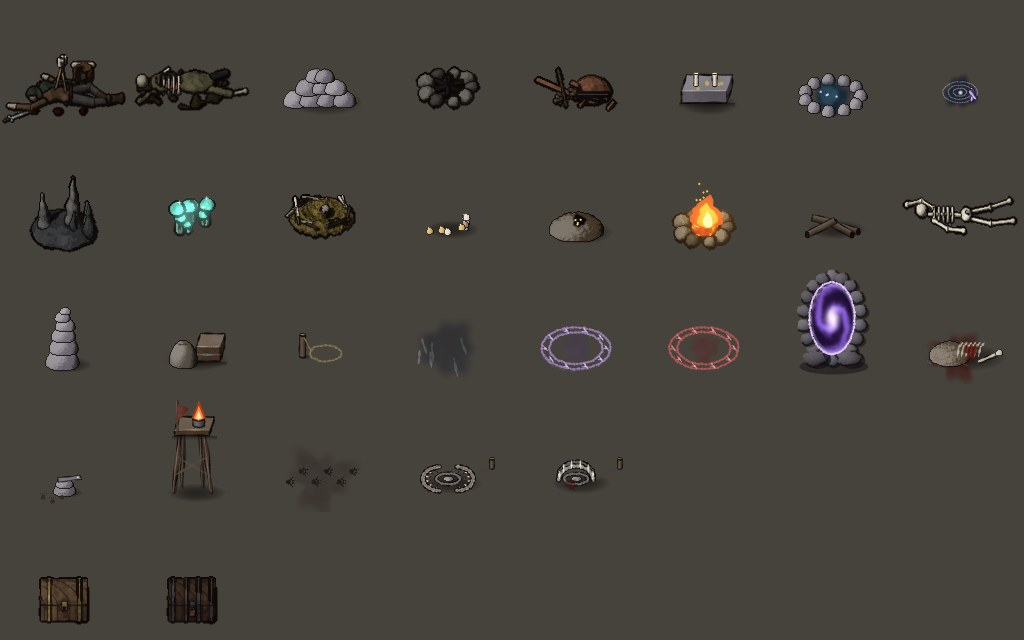
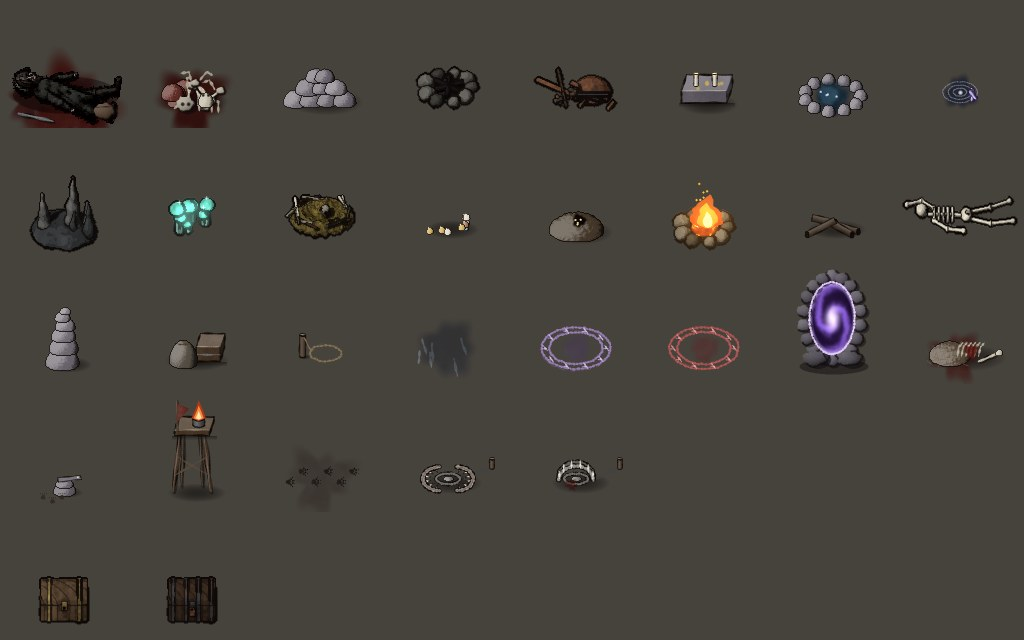
게임의 시체 소품 둘을 옛 그림으로 되돌림(키트 소품 9칸)
Claude-Session: https://claude.ai/code/session_01Afqs6eSr4jx8pAh9swNiAv

Changed region(s): [[0.0, 0.0938, 0.25, 0.2188]]

diff --git a/tools/dungeon_kit/game_props.py b/tools/dungeon_kit/game_props.py
@@ -21,8 +21,7 @@ OLD = os.path.join(kit.ROOT, "assets", "floor", "f1", "props.webp")
 OUT = os.path.join(kit.ROOT, "assets", "floor", "kit", "props.webp")
 # 칸 번호 → (키트 id, 변형, 프레임, 칸에 맞출 가장 큰 폭 px) — 옛 그림과 같은 뜻의 것만 바꾼다(포탈 · 덫 · 노움 물건 · 발자국은 옛 그림 그대로)
 PROPS = {
-    0: ("corpse", "explorer", 0, 124),          # 탐험가의 시체
-    1: ("corpse", "rotten", 0, 116),            # 갉아먹힌 시체 더미
+    # 0 탐험가의 시체 · 1 갉아먹힌 시체 더미 = 옛 그림(사용자 2026-11-13 "시체는 원래 거로 롤백해")
     3: ("firepit", "cold", 0, 84),              # 꺼진 모닥불 자리
     4: ("broken_weapon", "pile", 0, 96),        # 부서진 장비 더미
     8: ("stalagmite", "cluster", 0, 96),        # 석순 숲

diff --git a/docs/ASSUMPTIONS.md b/docs/ASSUMPTIONS.md
@@ -750,7 +750,7 @@
 | AM63 | **미궁 벽을 플레이어 키보다 높게 · 아치를 키 높이로 · 아치 안은 뒤가 보이게**(사용자 2026-11-01 "아치가 너무 낮다 — 플레이어 키 정도로, 미궁 내부 벽을 높일 필요도. 아치 내부를 검정으로 때려박았던데 위에 덮어 가리는 형태로, 아치 안으로 뒤 지형이 보이게"): 기본 벽 앞면 24 → **48px**(render.json `view.wall_tile_px` [32, 80] — 플레이어 몸 그림 키 약 42px) · 바위 절벽 40 → 56 · 폭포 48 → 56 · 성문·창·집·오두막·깃발 벽·벽감 → 48 · 승강기 44 → 52 · 무너진 흙 30 → 40 · 기둥 56 → 64 · 대현자 기념비 40 → 56(벽보다 낮아지지 않게). 그대로: 관·큰바위·네모 수정·서 있는 소품. 벽 아틀라스는 `paint_floor.gd`로 새 높이에 다시 그림(앞면 칠이 높이를 따라간다 — 45초). 아치: 아치 시작 spring 0.7 → 0.42 · 가운데 두께 lintel 0.3 → 0.14(트인 높이 = 앞면 48 × 0.86 ≈ 41px), 아치 밑 그늘 0.6·0.45칸 → 0.3·0.3칸 — 아치는 위에 덮을 뿐이라 안으로 뒤 통로 바닥이 그대로 보인다(검은 것은 아치 위 벽 머리뿐). 벽이 칸보다 높아져 생긴 것: ① 북쪽 칸이 벽이어도 그 너머(앞면 높이 안)에 바닥이 있으면 벽 윗면을 검게 그린다(`WallShape._open_behind` — 안 그리면 계단진 벽 둘레에 바닥이 가는 띠로 비쳤다) ② 캐릭터 실루엣은 바로 남쪽 벽뿐 아니라 앞면이 한 칸 너머까지 올라오는 두 칸 남쪽 벽에도(`FloorView._occludes`) ③ 벽 북쪽 1~1.5칸 바닥이 벽에 가려진다(3/4 시점에서 높은 벽 뒤 — 레퍼런스와 같은 모습) | 사용자 요청 | 높이 = render.json `view.wall_tile_px`(기본) · 타일 `face_px` + `tools/floor_art/rift/specs.json`·`Specs.gd` face_px(같게) → `paint_floor.gd` → `--import` · 아치 = `view.door` |
 | AM64 | **2층 그림 마감 — 각진 타일 느낌 없애기**(사용자 2026-11-11 "2층 이미지가 각지고 타일 같다. 1층 수정동굴 · 균열처럼 마감해 줘 — 갈아엎고 다시 그려도 돼. 건물 · 상호작용 요소가 ppt 도형 같다. 렉도 걸리지 않게"): ① **넓은 바닥 재질**(타일 `art.span` 4) — 칸(64px)마다 같은 바탕이 되풀이되던 아틀라스 대신 4 × 4칸을 덮는 이어지는 그림 13장(`tools/f2_art/ground.py`). ② **재질 번짐**(`art.fringe` 순위 · `fringe_style`) — 재질이 다른 바닥이 맞닿으면 순위 높은 쪽이 들쭉날쭉 스며든다(`FloorFringe` + `floor_fringe.gdshader` + 띠 모양 `fringe_mask.webp`), 같은 높이(sunk)끼리만. ③ **둘레 바닥 빌리기** — 번짐을 쓰는 층의 소품 · 서 있는 소품 · 포탈 칸은 자기 바닥 대신 맞닿은 맨바닥을 깐다(같은 타일이 여러 땅에 놓여도 네모가 뜨지 않는다), 올가미 · 덮은 구덩이 · 말뚝 · 금 · 꺼진 구멍은 투명 덧그림(`art.overlay`). ④ **소품 · 큰 구조물 35장 다시 그림** — 평면 도형 대신 덩어리를 빚어(거리장) 3/4 시점으로 찍고 3~4단 칠 · 잉크 윤곽 · 빗금으로 마감(`tools/f2_art/props.py`). 모습은 그대로(영묘 · 천사상 · 종탑 · 고목 · 기사상 / 움막 · 천막 · 망대 · 나무 일곱). ⑤ **자연 암벽 윗선**(소굴 · 사막 `art.abyss.rise.soft` 0.55) — 솟은 면 윗부분이 어둠으로 녹고 남쪽 가장자리 띠를 뺀다(칸 계단이 보였다). ⑥ **렉** — 서 있는 소품은 그림이 있는 네모만 그린다(시트 옆 json, 큰 나무 칸은 대부분 투명했다), 번짐 띠도 덮는 폭만. 숲 바닥 · 빈터 타일 색을 덜 쨍하게(#414a30 · #4f6a38). 2층 균열 · 벽(덤불 둔덕 · 폐허)은 그대로 | 사용자 요청 | 번짐 끄기 = tiles.json `art.fringe` 지우기 · 순위 바꾸기 = 그 숫자 · 옛 아틀라스로 = `art.span` 지우고 git에서 그림 되돌리기 · 재질 다시 = `python3 tools/f2_art/ground.py [이름]` · 소품 다시 = `python3 tools/f2_art/props.py [f2d\|f2g][:stand\|big] [--only=이름]` · 암벽 윗선 = 층 JSON `art.abyss.rise.soft`(0 = 또렷) |
 | AM65 | **던전 에셋 키트는 기존 그림 · 지도와 떼어 둔다**(사용자 2026-11-13 "재사용 가능한 던전 에셋 라이브러리 — 기존 파일을 덮어쓰지 말고 분리된 디렉터리"): 그림 `assets/dungeon_kit` · 생성기 `tools/dungeon_kit` · 창구 `src/kit/DungeonKit.gd`. 기법은 2층 소품(AM64)과 같은 덩어리 빚기 + 손그림 마감, 크기는 탐험 그림과 같은 64px = 한 칸 · 벽 2.5칸 · 북쪽 벽면만(지금 게임 벽 규칙). 낱 파일 대신 분류마다 묶음 그림 한 장 + `kit.json`(파일 수 · 그리기 호출을 줄인다). 글자는 모두 지어낸 모양 | 낱 그림이 편하고 묶음이 가볍다. 지금 층에 섞으면 화면이 바뀌므로 연결은 사용자가 층을 정한 뒤 | 낱 png = `build.py --singles=<폴더>` · 크기 = `kit.U` · 연결 = `DUNGEON_KIT.md` §3 |
-| AM66 | **키트 그림은 먼저 동굴 요소 소품에만 연결한다**(사용자 2026-11-13 "현재 개발된 게임에 에셋 적용시켜"): 옛 소품과 뜻이 같은 키트 그림이 있는 11칸만 바꾸고(시체 · 해골 · 모닥불 · 부서진 장비 · 석순 · 버섯 · 둥지 · 2층 궤짝), 포탈 · 덫 · 노움 물건 · 샘 · 공물 · 돌탑은 옛 그림 그대로. 새 시트 `assets/floor/kit/props.webp`를 만들고 tiles.json이 그것을 가리키게 했다(옛 시트 · 그리는 코드는 건드리지 않는다). 바닥 · 벽 타일 · 가구 · 함정은 지도 설계가 바뀌는 일이라 연결하지 않았다 | 게임 지도 · 규칙을 바꾸지 않고 화면에 바로 나오는 자리가 소품이다. 지도에 새 물건을 놓는 것은 층마다 기획이 필요하다 | 칸 더 바꾸기 · 되돌리기 = `docs/DUNGEON_KIT.md` §3.1 |
+| AM66 | **키트 그림은 먼저 동굴 요소 소품에만 연결한다**(사용자 2026-11-13 "현재 개발된 게임에 에셋 적용시켜"): 옛 소품과 뜻이 같은 키트 그림이 있는 9칸만 바꾸고(시체 둘은 사용자 2026-11-13 "원래 거로 롤백"으로 옛 그림 — 해골 · 모닥불 · 부서진 장비 · 석순 · 버섯 · 둥지 · 2층 궤짝), 포탈 · 덫 · 노움 물건 · 샘 · 공물 · 돌탑은 옛 그림 그대로. 새 시트 `assets/floor/kit/props.webp`를 만들고 tiles.json이 그것을 가리키게 했다(옛 시트 · 그리는 코드는 건드리지 않는다). 바닥 · 벽 타일 · 가구 · 함정은 지도 설계가 바뀌는 일이라 연결하지 않았다 | 게임 지도 · 규칙을 바꾸지 않고 화면에 바로 나오는 자리가 소품이다. 지도에 새 물건을 놓는 것은 층마다 기획이 필요하다 | 칸 더 바꾸기 · 되돌리기 = `docs/DUNGEON_KIT.md` §3.1 |
 | AM64 | **문 모양 여러 가지 · 그늘 없음 · 둥근 벽 머리**(사용자 2026-11-01 "아치 그림자 없애고 위 검은 부분 각진 것 둥글게 · 아치 모양에 바리에이션 — 다 똑같으면 부조화, 네모난 문·아치·큰 대문 등 진짜 있을 법한 통로 연결부"): 벽 타일 `art.doors` = 그 벽에 생기는 문 모양 후보, 자리마다 해시로 하나(같은 자리는 늘 같다), 같은 모양도 자리마다 높이·기울기가 조금씩 다르다. 1층 암벽·수정벽·빙하굴 얼음벽·바위 절벽 = rough(울퉁불퉁한 자연 굴) 2 : cave(매끈한 굴) 1 · 탄광 갱도 벽 = timber(버팀목 기둥 + 나무 들보) 2 : rough 1, 무너진 흙 = timber·rough · 성채 성벽 = square(네모 돌 문틀)·round(둥근 아치 + 쐐기돌)·pointed(뾰족 아치)·gate(큰 대문 — 두 겹 문틀 + 쐐기돌 + 올려 둔 쇠창살 이빨, 3칸 이상만) · 묘 금속벽 = square 2 · gate · round. 지은 문은 돌 문틀 띠(5px, 앞면 색 × 빛) + 문설주 + 문지방, 자연 굴은 벽 그림만. 아치 밑 그늘은 없앴다. 문 위 검은 벽 머리는 윗변이 U자(가운데 낮게 — 뒤 통로 바닥이 둥글게 이어진다). 지금 성채 지도에는 문 조건에 맞는 자리가 없어(통로가 넓다) 성채 모양은 보이지 않는다 | 사용자 요청 | 후보 = `tiles.json` 벽 `art.doors` · 모양별 높이 = render.json `view.door.kinds.<모양> {spring, crown}`(기본 `DoorArt.DEFAULTS`) · 그림 `DoorArt` |
 | AM65 | **1층 수정동굴 아치 없음 · 벽 밑 띠 없앰 · 빙하굴 1챕터 테두리**(사용자 2026-11-04 "수정동굴 아치 제거(방 연결부뿐 아니라 아래 벽 밑에 쓸데없는 잔상)" · "빙하굴 외부 벽(테두리)이 안 이어짐"): ① 벽 타일 `art.doors: ["none"]`이면 문(아치)을 찾지 않는다(`WallDoors.run_at`) — 1층 rock_wall·crystal_wall. ② 남쪽도 벽이라 앞면이 없는 벽 칸은 솟은 윗면 아래 몸통 자리(벽 높이 − 칸)를 어둡게 덮는다(`WallShape._wall_cell`) — 안 덮으면 벽 뒤(북쪽) 바닥이 벽 밑에 띠로 비쳤다. 모든 지도에 적용. ③ 빙하굴 1챕터는 바깥 둘레 왼쪽·위가 솟은 빙벽(gc_rise), 오른쪽이 바위 절벽(gc_cliff — 윗면이 검다)이라 테두리가 끊겨 보였다 → 1챕터의 gc_cliff를 모두 gc_rise로(걷지 못하는 건 같고, 솟은 빙벽은 시야를 막지 않는다 — 얼음 동굴은 얼음벽이 따로 막는다) | 사용자 요청 | `tiles.json art.doors` · `data/maps/rifts/rift_glacier_cave_ch1.json` |
 | AM13 | 입자는 CPUParticles2D(웹 호환), 플레이어를 따라가며 시야 반경 안에서만 생기고 월드에 남는다(걸어도 끌려가지 않음). 그림은 둥근 점(그러데이션 16px) — 손그림 입자는 A2 이후 | 지시서 §3.3·§7 | `AmbientParticles` |

diff --git a/docs/DUNGEON_KIT.md b/docs/DUNGEON_KIT.md
@@ -2,7 +2,7 @@
 
 여러 층 · 테마의 미궁을 만들 때 계속 꺼내 쓰는 **재사용 그림 묶음 + 그것을 굽는 생성 시스템**.
 그림 기법은 2층 소품(AM64)과 같다 — 덩어리를 빚어(`tools/f2_art/sdf.py`) 3/4 시점으로 찍고 손그림으로 마감(`solid.py`), 바닥 · 벽면은 이어지는 넓은 재질(`tex.py`).
-**게임에 연결된 것(AM66, 2026-11-13)**: 탐험 화면의 동굴 요소 소품 11칸(탐험가의 시체 · 갉아먹힌 시체 · 꺼진 모닥불 · 부서진 장비 · 석순 · 수정 버섯 · 뼈와 털 무더기 · 고블린 모닥불 · 오래된 해골 · 2층 궤짝 둘) — §3.1. 바닥 · 벽 타일과 나머지 물건은 아직 지도에 쓰이지 않는다.
+**게임에 연결된 것(AM66, 2026-11-13)**: 탐험 화면의 동굴 요소 소품 9칸(꺼진 모닥불 · 부서진 장비 · 석순 · 수정 버섯 · 뼈와 털 무더기 · 고블린 모닥불 · 오래된 해골 · 2층 궤짝 둘) — §3.1. 바닥 · 벽 타일과 나머지 물건은 아직 지도에 쓰이지 않는다.
 
 | 무엇 | 어디 |
 |---|---|
@@ -67,7 +67,7 @@ kit.ids("trap") · kit.ids("", "wall_decal") · kit.variants(id) · kit.texture(
 
 ### 3.1 지금 게임에 연결된 것 — 소품 시트 (AM66)
 
-- 게임은 칸 크기가 같은 소품 시트에서 칸 번호로 그린다(타일 `art.prop` — `DecorChunk`). 그 틀을 그대로 두고 **새 시트 `assets/floor/kit/props.webp`**(8열 · 칸 128px · 5줄)를 만들었다: 옛 시트(`assets/floor/f1/props.webp` — 그대로 있다)를 바탕으로, `tools/dungeon_kit/game_props.py`의 `PROPS` 표에 적은 칸만 키트 그림으로 갈아 끼운다(포탈 · 덫 · 노움 물건 · 발자국 · 샘 · 공물 · 돌탑은 옛 그림 그대로).
+- 게임은 칸 크기가 같은 소품 시트에서 칸 번호로 그린다(타일 `art.prop` — `DecorChunk`). 그 틀을 그대로 두고 **새 시트 `assets/floor/kit/props.webp`**(8열 · 칸 128px · 5줄)를 만들었다: 옛 시트(`assets/floor/f1/props.webp` — 그대로 있다)를 바탕으로, `tools/dungeon_kit/game_props.py`의 `PROPS` 표에 적은 칸만 키트 그림으로 갈아 끼운다(포탈 · 덫 · 노움 물건 · 발자국 · 샘 · 공물 · 돌탑은 옛 그림 그대로 — **시체 둘(탐험가의 시체 · 갉아먹힌 시체 더미)도 옛 그림**: 사용자 2026-11-13 "시체는 원래 거로 롤백해").
 - `data/tiles.json`의 소품 타일 61개가 새 시트를 가리킨다(칸 번호는 같다). 2층 궤짝 다섯은 새 칸 32 · 33(옛 시트에서는 1층 돌무더기 그림을 같이 썼다).
 - 키트 그림은 시트에 넣을 때 바닥 그림자 · 빛 무리를 뺀다 — 살필 수 있는 소품에 두르는 검은 테두리가 그림자까지 감싸 덩어리로 보였다.
 - 더 바꾸려면: `PROPS`에 `칸: (키트 id, 변형, 프레임, 폭 px)` 한 줄 → `python3 tools/dungeon_kit/game_props.py` → `texture_compress.py` → `--import` → 캡처(`--screen=explore --at=x,y --torch --reveal` — 자리는 `data/maps/f1_crystal_cave.json` features). 되돌리기 = tiles.json의 `kit/props.webp`를 `f1/props.webp`로(궤짝 칸은 17).
@@ -91,7 +91,7 @@ xvfb-run -a -s "-screen 0 1280x800x24" godot --rendering-driver opengl3 --path .
 
 ## 5. 아직 없는 것
 
-- 바닥 · 벽 타일과 소품 11칸 밖의 물건을 게임 지도에 쓰는 것(층 · 균열을 정해야 한다), 동 · 서 · 남쪽을 보는 벽면과 옆으로 난 문(지금 게임처럼 북쪽 벽면만), 벽 윗면의 안쪽 대각 모서리 조각.
+- 바닥 · 벽 타일과 소품 9칸 밖의 물건을 게임 지도에 쓰는 것(층 · 균열을 정해야 한다), 동 · 서 · 남쪽을 보는 벽면과 옆으로 난 문(지금 게임처럼 북쪽 벽면만), 벽 윗면의 안쪽 대각 모서리 조각.
 - 서로 다른 바닥 재질 사이의 번짐 띠(게임의 `FloorFringe`를 그대로 쓰면 된다 — 키트 바닥에 `fringe` 값은 아직 없다).
 - 물 · 용암이 흐르는 바닥 타일 애니메이션, 열리는 동작의 중간 프레임(문 · 상자는 닫힘/열림 두 상태뿐), 불빛이 물건에 드리우는 색.
 - 층 테마별 색 묶음(얼음 · 사막 · 숲 변형)과 그 벽 종류, 큰 구조물(다리 · 탑 · 무너진 천장), 방향이 넷인 가구는 의자뿐.

diff --git a/docs/PROGRESS.md b/docs/PROGRESS.md
@@ -15,7 +15,7 @@
 ## 2. 다음 할 일
 
 **A. 바로 할 수 있는 것**
-00g. **던전 에셋 키트를 층에 쓰기**(`docs/DUNGEON_KIT.md` — 사용자 2026-11-13): ✔ 키트 · 생성기 · `DungeonKit` · 동굴 요소 소품 11칸 연결(AM66). 다음 = 바닥 · 벽 타일과 나머지 물건(가구 · 조명 · 함정 · 흔적)을 쓸 층 · 균열 정하기, 남은 소품 칸(공물 · 샘 · 돌탑 · 횃불 토막) 바꿀지 사용자 확인.
+00g. **던전 에셋 키트를 층에 쓰기**(`docs/DUNGEON_KIT.md` — 사용자 2026-11-13): ✔ 키트 · 생성기 · `DungeonKit` · 동굴 요소 소품 9칸 연결(AM66 — 시체는 옛 그림). 다음 = 바닥 · 벽 타일과 나머지 물건(가구 · 조명 · 함정 · 흔적)을 쓸 층 · 균열 정하기, 남은 소품 칸(공물 · 샘 · 돌탑 · 횃불 토막) 바꿀지 사용자 확인.
 00f. **몬스터 전투 움직임**(`docs/plans/show_dont_tell_audit.md` §0 — 공격 · 피격 · 큰 몸짓 자세 · 끊김 · 기절 · 밀려남 · 달아남): 사용자 보류(2026-11-08). 하면 `combat.*_warn/_fire` 등 40여 문구를 silent로.
 00e. **2층 새 몬스터 19종**(`docs/plans/floor2_monsters.md` — 사용자 2026-11-08): ✔ F2M1~F2M4(숲 13종 · 데이터 · 그림 · 자리 · 지도 행동 · 전투 규칙). 다음 = sim_walk · sim_party로 2층 전투 간격 · 난이도 다시 재기, 날아서 벽 넘기(flying)는 보류.
 00d. **정수 시너지**(`docs/plans/essence_synergy.md`): ✔ ES1~ES6(반응 패시브 여섯 · 상한 1.35 · 은신 · 처치 게이지 · 연계 표시 · 새 정수 규칙 = CLAUDE.md + test_essence_synergy) — 사용자 플레이 확인 기다림. 다음 = sim_party 조합 비교.
@@ -58,7 +58,7 @@
 
 ## 3. 최근 작업 (위가 최신, 10줄까지 — 자세한 것은 PROGRESS_LOG에서 제목으로)
 
-- 2026-11-13 **키트 그림을 게임 소품에 연결(AM66)** — 탐험 화면 동굴 요소 11칸(시체 · 해골 · 모닥불 · 부서진 장비 · 석순 · 버섯 · 둥지 · 2층 궤짝)을 키트 그림으로(`assets/floor/kit/props.webp` ← `game_props.py`), 키트의 탐험가 시체 · 웅덩이 다시 그림
+- 2026-11-13 **키트 그림을 게임 소품에 연결(AM66)** — 탐험 화면 동굴 요소 9칸(해골 · 모닥불 — 시체 둘은 사용자 요청으로 옛 그림으로 되돌림 · 부서진 장비 · 석순 · 버섯 · 둥지 · 2층 궤짝)을 키트 그림으로(`assets/floor/kit/props.webp` ← `game_props.py`), 키트의 탐험가 시체 · 웅덩이 다시 그림
 - 2026-11-13 **던전 에셋 키트(AM65)** — 재사용 그림 181종 · 829장(바닥 14 · 벽 15 · 구조물 · 가구 · 조명 · 흔적 · 자연물 · 특수 · 함정) + 테마 세트 7, 생성기 `tools/dungeon_kit` · 창구 `DungeonKit` — 게임 지도에는 아직 연결 안 함(`docs/DUNGEON_KIT.md`)
 - 2026-11-11 **2층 그림 마감(AM64)** — 바닥 13재질 넓은 그림(칸 격자 없음) · 재질 경계 번짐 · 소품 · 큰 구조물 35장 덩어리로 다시 그림 · 소굴 · 사막 암벽 윗선 · 소품은 그림 네모만 그림(렉). 도구 `tools/f2_art/`
 - 2026-11-10 **9등급 생명력 수정동굴 기준 · 2층 9등급 27종 → 8등급(BL13)** — 남은 9등급 ×1.38, 8 · 7등급 일반 · 정예 ×1.35, 8등급 된 것은 기준 55 × 체격, 정수도 8등급

diff --git a/docs/archive/PROGRESS_LOG.md b/docs/archive/PROGRESS_LOG.md
@@ -6,7 +6,8 @@
 ### 2026-11-13 키트 그림을 게임 소품에 연결 · 시체 · 웅덩이 다시 그림(AM66)
 - **범위 / 기준 / 테스트**: 사용자 "탐험가 시체랑 웅덩이만 다시 그리고 현재 개발된 게임에 에셋 적용시켜". 기준 = 두 그림이 무엇인지 알아보이고, 게임 탐험 화면에 키트 그림이 실제로 나온다. 테스트 = 바닥 위 미리보기 · 게임 캡처(`--at`) · check.sh.
 - **한 일**: ① 키트 `corpse.explorer`(엎어진 사람 꼴 — 뻗은 팔 · 굽힌 다리 · 장화 · 두건 · 등에 화살 둘 · 흘러내린 망토 · 떨어진 배낭과 칼) · `puddle`(비치는 얕은 물 — 바닥 줄눈이 보이고 왼쪽 위 턱 그늘 · 오른쪽 아래 가는 반짝임 · 누운 빛) 다시 그림 ② `tools/dungeon_kit/game_props.py` → `assets/floor/kit/props.webp`(옛 시트 바탕 + 키트 11칸) ③ tiles.json 소품 타일 61개가 새 시트를, 2층 궤짝 다섯은 새 칸 32 · 33을 가리킨다. 옛 시트 · 그리는 코드는 그대로.
-- **수치**: 캡처로 1층에서 부서진 장비 · 꺼진 모닥불 · 탐험가 시체 · 갉아먹힌 시체 · 수정 버섯 · 석순 확인(`docs/screens/dungeon_kit/game_props_f1.jpg`). 고블린 모닥불 · 뼈 무더기 · 오래된 해골 · 2층 궤짝은 시트 그림만 확인(그 자리는 전투가 먼저 걸려 화면을 못 찍었다 — 해골은 그림자 빼기 전 캡처로 봤다).
+- **수치**: 캡처로 1층에서 부서진 장비 · 꺼진 모닥불 · 탐험가 시체 · 갉아먹힌 시체 · 수정 버섯 · 석순 확인(캡처 그림은 시체를 되돌리며 지웠다 — 시트는 `docs/screens/dungeon_kit/game_props_sheet.jpg`). 고블린 모닥불 · 뼈 무더기 · 오래된 해골 · 2층 궤짝은 시트 그림만 확인(그 자리는 전투가 먼저 걸려 화면을 못 찍었다 — 해골은 그림자 빼기 전 캡처로 봤다).
+- **되돌림(같은 날)**: 사용자 "시체는 원래 거로 롤백해" → 게임의 탐험가의 시체 · 갉아먹힌 시체 더미(칸 0 · 1)는 옛 그림으로(`game_props.py` PROPS에서 뺌 — 키트 칸 9개). 키트 안의 시체 에셋은 그대로 둔다.
 - **남은 것**: 게임 빛(횃불 · 바닥 색 곱)이 키트 그림을 누렇게 물들인다(옛 소품도 같다) · 바닥 · 벽 타일과 나머지 물건은 아직 지도에 쓰이지 않는다 · 공물 · 샘 · 돌탑 · 횃불 토막 · 마석 더미는 옛 그림 그대로.
 
 ### 2026-11-13 던전 에셋 키트(AM65)

diff --git a/docs/PLAYTEST.md b/docs/PLAYTEST.md
@@ -8,8 +8,8 @@
 
 | # | 하는 것 | 보여야 하는 것 |
 |---|---|---|
-| 1 | 1층을 걷다가 탐험가의 시체를 만난다 | 엎어진 사람(뻗은 팔 · 등에 화살 · 곁에 배낭과 칼) — 살피기 · 얻는 물건은 전과 같다 |
-| 2 | 꺼진 모닥불 자리 · 부서진 장비 더미 · 석순 숲 · 수정 버섯 · 오래된 해골 · 갉아먹힌 시체 더미 · 고블린 모닥불 · 뼈와 털 무더기 | 새 그림(키트). 크기 · 자리 · 살필 때 검은 테두리는 전과 같다 |
+| 1 | 1층을 걷다가 탐험가의 시체 · 갉아먹힌 시체 더미를 만난다 | 옛 그림 그대로(되돌림) |
+| 2 | 꺼진 모닥불 자리 · 부서진 장비 더미 · 석순 숲 · 수정 버섯 · 오래된 해골 · 고블린 모닥불 · 뼈와 털 무더기 | 새 그림(키트). 크기 · 자리 · 살필 때 검은 테두리는 전과 같다 |
 | 3 | 2층 망자의 땅 · 고블린 숲의 궤짝 | 나무 궤짝 그림(족장 궤짝은 쇠테 두른 것) — 전에는 돌무더기 그림이었다 |
 | 4 | 포탈 · 곰덫 · 노움 물건 · 샘 · 공물 · 돌탑 | 옛 그림 그대로 |
 | 5 | `docs/screens/dungeon_kit/redo_corpse_puddle.jpg` | 다시 그린 탐험가 시체 · 웅덩이(돌바닥 · 판석 · 흙 위) — 더 고칠 곳이 있으면 알려 주기 |
